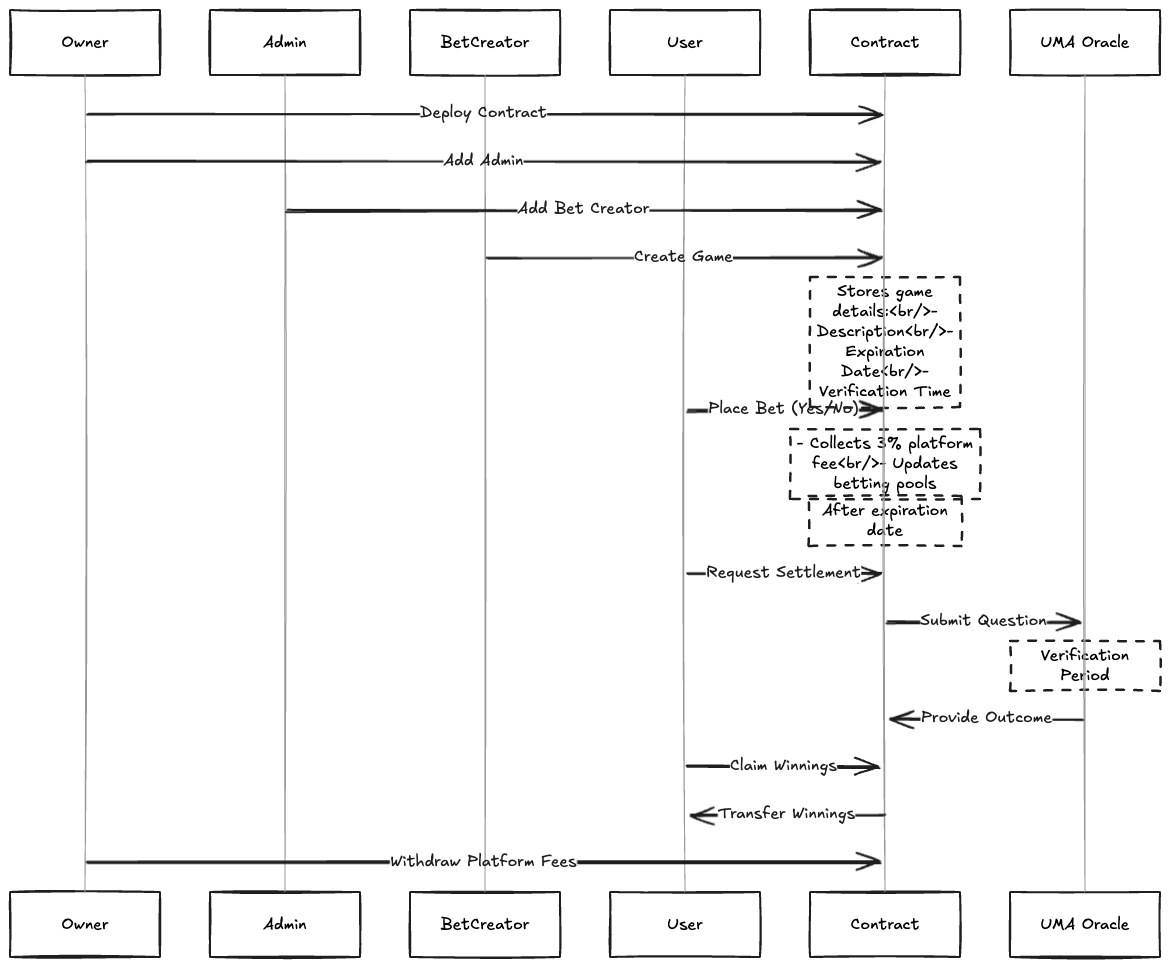
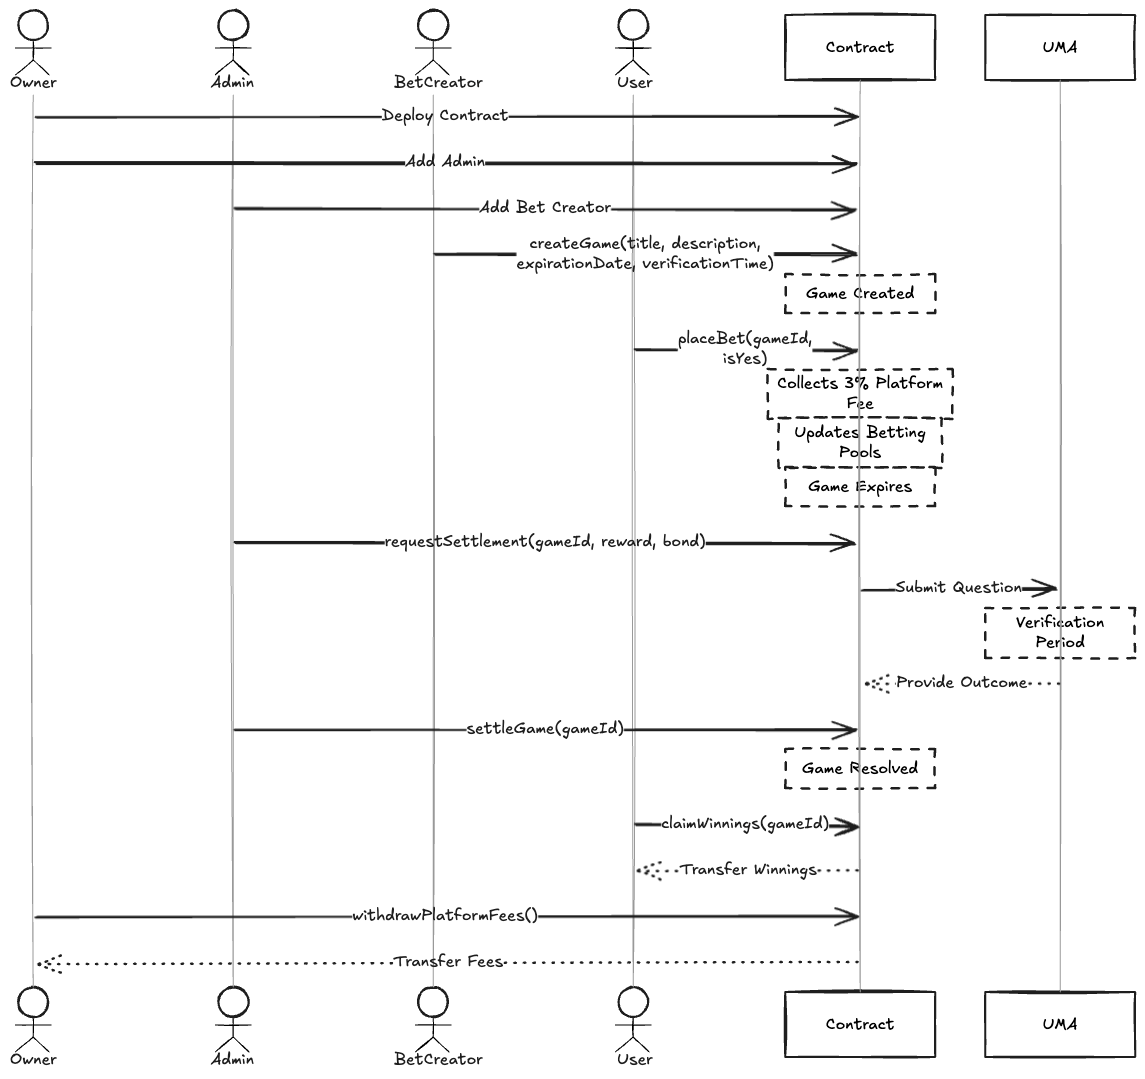
docs

diff --git a/docs/core/roles.md b/docs/core/roles.md
@@ -1,0 +1,25 @@
+# Roles & Access Control
+
+## Role Hierarchy
+
+| Role        | Description       | Key Permissions                                           |
+| ----------- | ----------------- | --------------------------------------------------------- |
+| Owner       | Contract deployer | - Add/Remove Admins<br>- Withdraw platform fees           |
+| Admin       | Platform managers | - Add/Remove Bet Creators<br>- Request/Execute settlement |
+| Bet Creator | Game creators     | - Create new betting games                                |
+| User        | Players           | - Place bets<br>- Claim winnings                          |
+
+## Access Control Matrix
+
+| Action             | Owner | Admin | Bet Creator | User |
+| ------------------ | ----- | ----- | ----------- | ---- |
+| Add Admin          | ✓     |       |             |      |
+| Remove Admin       | ✓     |       |             |      |
+| Add Bet Creator    | ✓     | ✓     |             |      |
+| Remove Bet Creator | ✓     | ✓     |             |      |
+| Create Game        | ✓     | ✓     | ✓           |      |
+| Place Bet          | ✓     | ✓     | ✓           | ✓    |
+| Request Settlement | ✓     | ✓     |             |      |
+| Settle Game        | ✓     | ✓     |             |      |
+| Claim Winnings     | ✓     | ✓     | ✓           | ✓    |
+| Withdraw Fees      | ✓     |       |             |      |

diff --git a/docs/core/architecture.md b/docs/core/architecture.md
@@ -1,0 +1,45 @@
+# Architecture & Flow
+
+## System Overview
+
+![Sequence Diagram](../images/diagrams/sequence.png)
+
+## How It Works
+
+### 1. Setup Phase
+
+- **Owner** deploys the contract and adds Admins
+- **Admins** can add Bet Creators
+- **Bet Creators** can create new games
+
+### 2. Betting Phase
+
+- **Bet Creator** creates a game with:
+  - Title & Description
+  - Expiration Date
+  - Verification Time
+- **Users** can place bets:
+  - Choose Yes/No outcome
+  - Send ETH (3% platform fee applied)
+  - Funds added to betting pool
+
+### 3. Settlement Phase
+
+- After game expiration:
+  - **Admin** requests settlement with UMA Oracle
+  - Provides reward and bond in WETH
+  - Waits for verification period
+  - **Admin** executes settlement with Oracle result
+
+### 4. Distribution Phase
+
+- **Users** can claim winnings if:
+  - They bet on correct outcome
+  - Game is resolved
+  - Haven't claimed yet
+
+## Key Components
+
+- **UMA Oracle**: Provides trustless game resolution
+- **WETH**: Used for Oracle rewards and bonds
+- **Platform Fee**: 3% on all bets

diff --git a/docs/README.md b/docs/README.md
@@ -1,15 +1,23 @@
-# BettingContract Documentation
+# BettingContract
 
-Welcome to the BettingContract documentation. This decentralized betting platform allows users to create and participate in binary (Yes/No) bets with trustless settlement using UMA Oracle.
-
-## System Overview
-
-![Betting Flow Diagram](./images/diagrams/sequence.png)
+A decentralized betting platform enabling binary (Yes/No) betting with trustless settlement using UMA Oracle.
 
 ## Key Features
 
-- Binary betting system (Yes/No outcomes)
+- Binary betting (Yes/No outcomes)
 - Role-based access control
 - UMA Oracle integration
-- Automated settlement process
 - 3% platform fee
+- Automated winnings distribution
+
+## Contract Addresses (Sepolia)
+
+- BettingContract: [Your Contract Address]
+- UMA Oracle: 0x9f1263B8f0355673619168b5B8c0248f1d03e88C
+- WETH: 0x7b79995e5f793A07Bc00c21412e50Ecae098E7f9
+
+## Quick Links
+
+- [Architecture & Flow](core/architecture.md)
+- [Roles & Access](core/roles.md)
+- [API Reference](technical/api.md)

diff --git a/docs/technical/api.md b/docs/technical/api.md
@@ -1,0 +1,50 @@
+# Smart Contract API
+
+## Core Functions
+
+### Game Management
+
+```solidity
+function createGame(
+    string memory title,
+    string memory description,
+    uint256 expirationDate,
+    uint256 _verificationTime,
+    string memory gameDetails
+) external onlyBetCreator
+```
+
+### Betting
+
+```solidity
+function placeBet(uint256 gameId, bool isYes) external payable
+```
+
+### Settlement
+
+```solidity
+function requestSettlement(
+    uint256 gameId,
+    uint256 reward,
+    uint256 bond
+) external onlyAdmin
+```
+
+```solidity
+function settleGame(uint256 gameId) external onlyAdmin
+```
+
+### Claims
+
+```solidity
+function claimWinnings(uint256 gameId) external
+```
+
+## Events
+
+```solidity
+event GameCreated(uint256 indexed gameId, string description);
+event BetPlaced(address indexed user, uint256 indexed gameId, bool isYes);
+event GameResolved(uint256 indexed gameId, bool outcome);
+event WinningsClaimed(address indexed user, uint256 indexed gameId);
+```

diff --git a/docs/core/betting.md b/docs/core/betting.md
@@ -1,0 +1,30 @@
+# Betting System
+
+## Game Creation
+
+- Created by Bet Creators
+- Requires title, description, expiration date
+- Sets verification time for UMA Oracle
+
+## Placing Bets
+
+- Users choose Yes/No outcome
+- Send ETH with bet
+- 3% platform fee applied
+- Funds added to respective pool (Yes/No)
+
+## Settlement Process
+
+1. Game expires
+2. Admin requests settlement
+   - Requires WETH for reward and bond
+3. UMA Oracle verification period
+4. Admin executes settlement
+5. Winners can claim their share
+
+## Winning Distribution
+
+- Winners share the total pool
+- Distribution based on bet size
+- Must claim manually
+- One-time claim per user per game

diff --git a/docs/SUMMARY.md b/docs/SUMMARY.md
@@ -1,20 +1,13 @@
 # Table of contents
 
 - [Introduction](README.md)
-
-## Getting Started
-
-- [Quick Start](getting-started/quick-start.md)
-- [Architecture](getting-started/architecture.md)
+- [Architecture & Flow](core/architecture.md)
 
 ## Core Features
 
 - [Roles & Access](core/roles.md)
 - [Betting System](core/betting.md)
-- [Settlement & Oracle](core/settlement.md)
 
-## User Guides
+## Technical
 
-- [For Admins](guides/admin.md)
-- [For Bet Creators](guides/creator.md)
-- [For Players](guides/player.md)
+- [Smart Contract API](technical/api.md)
